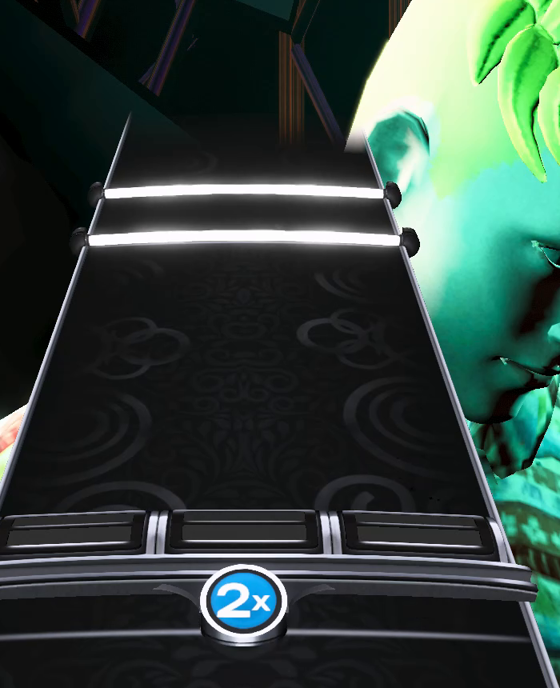
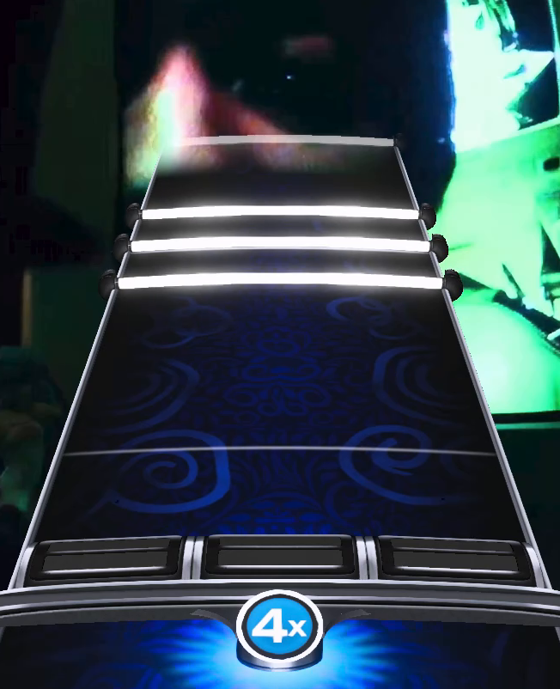
Retake the screenshots at the v1.4 note size
Strum, HOPO, tap, star power and open are retaken from a recording of
James Ivy's Silly Love, so they show notes at their current size. That
song has no both-buttons notes, so that image is carried over from the
earlier recording and labelled as older. Every tap in the song falls
inside star power, so the tap still has gold outlines and says so.

Claude-Session: https://claude.ai/code/session_01MjxPJnfzpczpniBQ1hQcuY

diff --git a/README.md b/README.md
@@ -38,7 +38,7 @@ five-fret notes use.
 | <img src="images/strum.png" width="260"> | **Strum notes.** A pick pointing down for the white row and up for the black, so the shape tells you which row to reach for before you've read the colour. |
 | <img src="images/barre.png" width="260"> | **Both buttons.** A rounded square when a column needs its black *and* white button held, showing both rows at once. |
 | <img src="images/hopo.png" width="260"> | **HOPOs.** Tinted blue, with a pool of light on the board beneath them — the way Guitar Hero Live lit its HOPOs. Size alone was too quiet a cue to catch at speed. |
-| <img src="images/tap.png" width="260"> | **Taps.** A normal note of its row with a translucent purple tint over it, following GHL's "don't strum this" convention. |
+| <img src="images/tap.png" width="260"> | **Taps.** A normal note of its row with a translucent purple tint over it, following GHL's "don't strum this" convention. (Shown inside a star power phrase, hence the gold outlines.) |
 | <img src="images/star-power.png" width="260"> | **Star power.** Notes in a live star power phrase get a gold outline, and lose it the moment the phrase is broken. Taps keep their purple while gilded. |
 | <img src="images/open.png" width="260"> | **Open notes.** The theme's standard full-width bar, unchanged, so an open strum looks the same as on every other instrument. |
 
@@ -47,8 +47,7 @@ light rather than by being smaller, which is easier to read at speed and doesn't
 make them harder to hit. HOPOs deliberately don't get the purple: a HOPO still needs
 a strum when your combo is 0, so marking one never-strum would be a lie.
 
-*Screenshots show notes at the size they were before v1.4; the notes are now about
-20% smaller.*
+*The both-buttons screenshot predates v1.4's size change; every other image is current.*
 
 One limitation worth knowing: the band inside each pick is a fixed colour rather
 than following your colour profile. YARG hands a single-button note one colour, so
